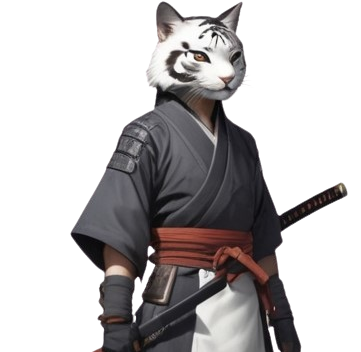
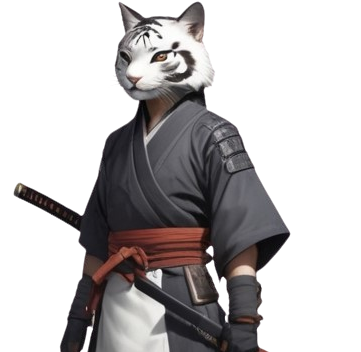
now we can chose the player and the enemy

diff --git a/src/composable/character.ts b/src/composable/character.ts
@@ -23,7 +23,9 @@ const {
 } = useJoker();
 
 const chosenEnemy = ref();
+const chosenPlayer = ref();
 const chosenBackground = ref();
+const isPlayerChosen = ref(false);
 
 const character: PlayerInterface = reactive(new Player("Mochi", 100, [], 0, 0));
 const characterenemy: PlayerInterface = reactive(new Player("", 0, [], 0, 0));
@@ -41,7 +43,7 @@ const roundIsPlaying = ref(false);
 const fightIsFinished = ref(false);
 
 let maxLifeEnemy = characterenemy.hp;
-const maxLifePlayer = character.hp;
+let maxLifePlayer = character.hp;
 
 export const useCharacter = () => {
   const setEnemy = (config: any) => {
@@ -53,6 +55,17 @@ export const useCharacter = () => {
     maxLifeEnemy = chosenEnemy.value.hp;
     toggleFight();
   };
+
+  const setPlayer = (config: any) => {
+    chosenPlayer.value = config;
+    character.hp = chosenPlayer.value.hp;
+    character.name = chosenPlayer.value.name;
+    character.maxdamage = chosenPlayer.value.damage;
+    character.maxheal = chosenPlayer.value.heal;
+    maxLifePlayer = chosenPlayer.value.hp;
+    isPlayerChosen.value = true;
+    console.log(config);
+  }
 
   const setNumberBackground = () => {
     chosenBackground.value = rollDice(Object.keys(story.backgrounds).length);
@@ -270,6 +283,7 @@ export const useCharacter = () => {
     character.resetStat(100);
     characterenemy.resetStat(maxLifeEnemy);
     deleteAbilities();
+    isPlayerChosen.value = false;
   };
 
   const resetFlag = () => {
@@ -297,8 +311,11 @@ export const useCharacter = () => {
     selectedEnemyJoker,
     character,
     chosenEnemy,
+    chosenPlayer,
     chosenBackground,
+    isPlayerChosen,
     setEnemy,
+    setPlayer,
     resetFlag,
     pushJoker,
     useHealWithDice,

diff --git a/src/components/Fight/FightCharacter.vue b/src/components/Fight/FightCharacter.vue
@@ -11,10 +11,10 @@
         </div>
       </transition>
       <img
-  src="../../../src/assets/images/mochi.png"
+  :src="chosenPlayer.img"
   class="Fight__character"
   :class="[
-    'Fight__character__hero', // Toujours appliquer cette classe
+    'Fight__character__hero',
     toggleAttackAnimation ? 'Fight__character__attack' : ''
   ]"
 />
@@ -23,7 +23,7 @@
         <div class="Fight__character__info__life">
           <div class="Fight__character__info__life__other">
             <img src="../../../src/assets/images/sword.png" />
-            <p>20</p>
+            <p>{{ chosenPlayer.damage }}</p>
           </div>
           <div
             class="Fight__character__info__life__other Fight__character__info__life__other--life"
@@ -33,7 +33,7 @@
           </div>
           <div class="Fight__character__info__life__other">
             <img src="../../../src/assets/images/heal.png" />
-            <p>20</p>
+            <p>{{ chosenPlayer.heal }}</p>
           </div>
         </div>
         <div class="Fight__character__info__jokers">
@@ -71,11 +71,10 @@ const {
   useAttackWithDice,
   useHealWithDice,
   hp,
-  roundHealPlayer,
-  roundDamageEnemy,
   fightIsFinished,
   playerJokers,
   selectedPlayerJoker,
+  chosenPlayer
 } = useCharacter();
 
 const { isDetailJokerComponentActive, setJokerName, showChosenJoker } =
@@ -283,7 +282,7 @@ p {
 }
 
 .Fight__character__hero {
-  animation: pulsate 8s infinite;
+  animation: pulsatePlayer 8s infinite;
 }
 
 .Fight__character__attack {

diff --git a/src/components/CharacterSlider.vue b/src/components/CharacterSlider.vue
@@ -5,7 +5,7 @@
       class="CharacterSlider__character"
     />
     <img src="../../src/assets/images/table4.png" class="CharacterSlider__table" />
-    <img src="../../src/assets/images/select.png" class="CharacterSlider__table__button" @click="setEnemy(config)"/>
+    <img src="../../src/assets/images/select.png" class="CharacterSlider__table__button" @click="isPlayerChosen ? setEnemy(config) : setPlayer(config)"/>
     <div class="CharacterSlider__table__infos">
       <h3>{{ config.name }}</h3>
       <div class="CharacterSlider__table__infos__info">
@@ -31,7 +31,7 @@
 <script setup lang="ts">
 import { useCharacter } from "../composable/character";
 
-const { setEnemy } = useCharacter();
+const { setEnemy, setPlayer, isPlayerChosen } = useCharacter();
 
 defineProps<{
   config: {

diff --git a/src/components/Scene.vue b/src/components/Scene.vue
@@ -137,6 +137,18 @@ watch(isVersusMode, (newValue) => {
   }
 }
 
+@keyframes pulsatePlayer {
+  0% {
+    transform: scaleX(-1) scale(1);
+  }
+  50% {
+    transform: scaleX(-1) scale(1.1);
+  }
+  100% {
+    transform: scaleX(-1) scale(1);
+  }
+}
+
 @keyframes flame {
   0% {
     filter: drop-shadow(0 0 20px rgba(201, 164, 0, 0.74));
